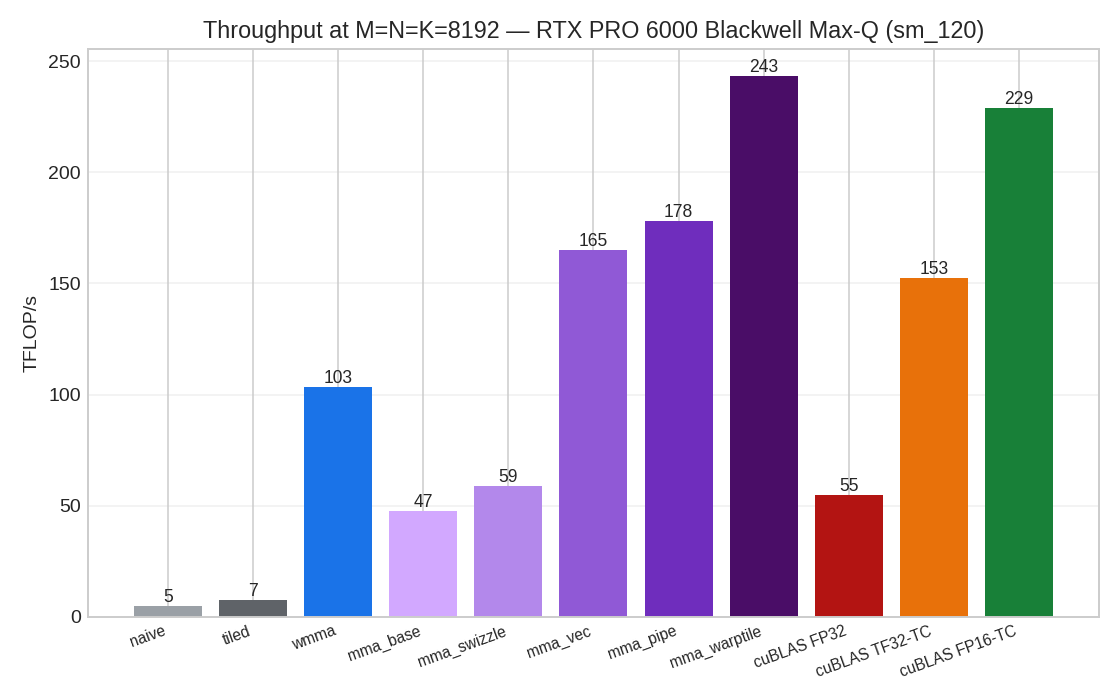
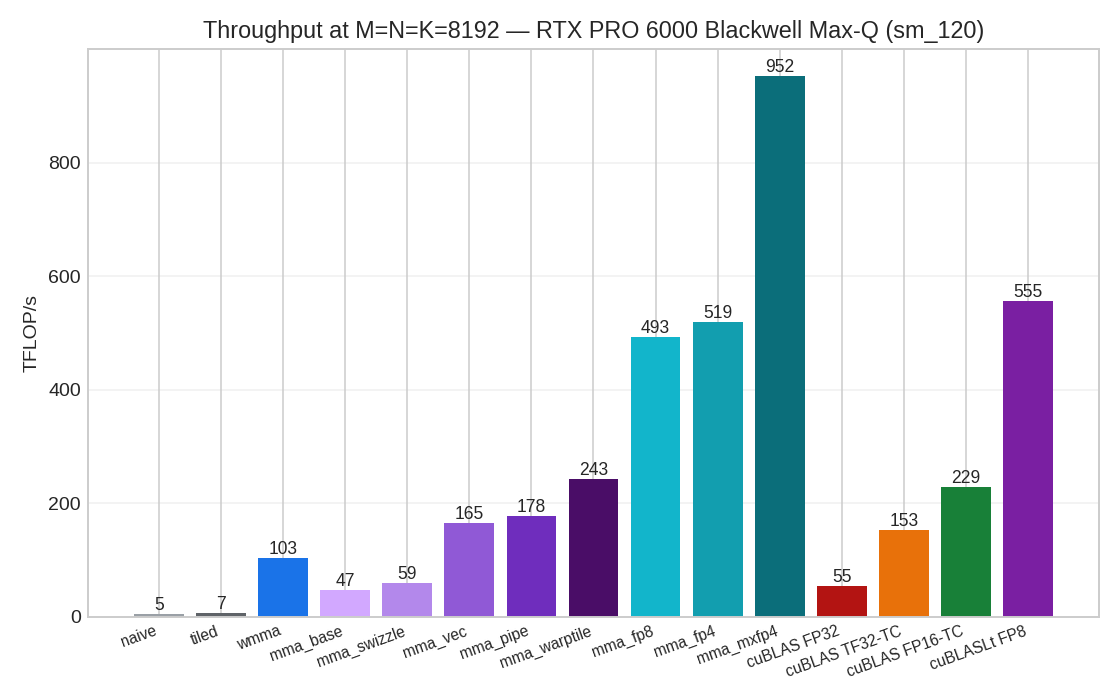
results: Phase 3 precision Pareto on sm_120 — FP16 241 -> FP8 493 (2.04x) -> MXFP4 952 TFLOP/s (3.95x)
8192^3, one session (bench_phase3_session.csv; canonical rows merged into bench.csv):
  mma_fp8      493.0 TFLOP/s  2.04x FP16   maxerr 1.4
  mma_fp4      519.0 TFLOP/s  2.15x FP16   maxerr 5.97  (unpacked - no real gain)
  mma_mxfp4    951.9 TFLOP/s  3.95x FP16   maxerr 5.97  (packed block-scale path)
  cublaslt_fp8 555.5 TFLOP/s  (our fp8 = 88.8% of it)

Spec'd 2x/4x of the 5th-gen Tensor Cores delivered through the plain mma path.
New chart: precision_pareto_sm120.png (throughput vs accuracy). Clock evidence:
300 W Max-Q cap reached, avg 2.06 GHz. Full analysis: results/phase3_lowprec.md.

diff --git a/analysis/plot.py b/analysis/plot.py
@@ -15,7 +15,9 @@ CSV  = os.path.join(HERE, "results", "bench.csv")
 # cublas_tc=GemmEx(FP16 in/FP32 acc,TC) — the honest same-precision ceiling for wmma/mma.
 KORDER = ["naive", "tiled", "wmma",
           "mma_base", "mma_swizzle", "mma_vec", "mma_pipe", "mma_warptile",
-          "cublas", "cublas_tf32", "cublas_tc"]
+          "cutlass_sm90",
+          "mma_fp8", "mma_fp4", "mma_mxfp4",
+          "cublas", "cublas_tf32", "cublas_tc", "cublaslt_fp8"]
 # consistent colour + style per kernel across all charts
 STYLE = {
     "naive":       ("#9aa0a6", "o", "naive (CUDA core)"),
@@ -27,12 +29,23 @@ STYLE = {
     "mma_vec":      ("#9059d6", "v", "mma_vec (+cp.async 16B)"),
     "mma_pipe":     ("#6f2dbd", "^", "mma_pipe (+2-stage pipeline)"),
     "mma_warptile": ("#4a0d67", "P", "mma_warptile (+64x64 warp tile) — final"),
+    "cutlass_sm90": ("#0b8043", "X", "cutlass_sm90 (CUTLASS 3.x wgmma, H100)"),
+    # Phase 3: low-precision formats (sm_120 mma path) — teal gradient
+    "mma_fp8":      ("#12b5cb", "o", "mma_fp8 (E4M3, our kernel)"),
+    "mma_fp4":      ("#129eaf", "s", "mma_fp4 (E2M1 unpacked, our kernel)"),
+    "mma_mxfp4":    ("#0b6e7a", "P", "mma_mxfp4 (packed E2M1 + block scale) — fastest"),
     "cublas":      ("#b31412", "^", "cuBLAS FP32 (cublasSgemm)"),
     "cublas_tf32": ("#e8710a", "v", "cuBLAS TF32-TC (cublasGemmEx)"),
     "cublas_tc":   ("#188038", "*", "cuBLAS FP16-TC (cublasGemmEx) — ceiling"),
+    "cublaslt_fp8": ("#7a1fa2", "*", "cuBLASLt FP8 (E4M3) — library FP8 ceiling"),
 }
 # the mma.sync ablation ladder, in optimization order (for the ablation chart)
 MMA_LADDER = ["wmma", "mma_base", "mma_swizzle", "mma_vec", "mma_pipe", "mma_warptile"]
+# Phase 3 Pareto: throughput vs accuracy across precisions (the chart only includes
+# kernels measured on the sm_120 box; cuBLAS rows are the library reference points)
+PARETO_KERNELS = ["mma_warptile", "mma_fp8", "mma_fp4", "mma_mxfp4", "cublas_tc", "cublaslt_fp8"]
+# % -of-cuBLAS-TC chart stays FP16-only: lowprec kernels are excluded from the FP16 ceiling chart
+PCT_TC_EXCLUDE = {"cublas_tc", "mma_fp8", "mma_fp4", "mma_mxfp4", "cublaslt_fp8"}
 
 
 def load(path):
@@ -96,7 +109,7 @@ def main():
             # ---- Chart 2: % of cuBLAS-TC (same-precision ceiling) ----
             tc = {s: tf for (s, tf, *_ ) in sorted(kerns.get("cublas_tc", []))}
             fig, ax = plt.subplots(figsize=(8, 5))
-            for k in [x for x in KORDER if x != "cublas_tc"]:
+            for k in [x for x in KORDER if x not in PCT_TC_EXCLUDE]:
                 if k in kerns and tc:
                     c, m, lab = STYLE[k]
                     pts = [(s, 100*tf/tc[s]) for (s,tf,*_ ) in sorted(kerns[k]) if s in tc]
@@ -107,7 +120,7 @@ def main():
             ax.set_xlabel("matrix size  M=N=K"); ax.set_ylabel("% of cuBLAS FP16-TC (same precision)")
             ax.set_title(f"Fraction of the honest Tensor Core ceiling — {short} (sm_{sm})")
             # headroom above the highest line (mma_warptile exceeds the 100% ceiling on sm_120)
-            ymax = max([100] + [100*tf/tc[s] for k in KORDER if k in kerns and k != "cublas_tc"
+            ymax = max([100] + [100*tf/tc[s] for k in KORDER if k in kerns and k not in PCT_TC_EXCLUDE
                                 for (s,tf,*_ ) in kerns[k] if s in tc])
             ax.set_ylim(0, ymax * 1.12)
             # legend below the axes so the 100% dashed line never crosses it
@@ -166,6 +179,35 @@ def main():
                 p4 = f"mma_ablation_sm{sm}.png"
                 fig.tight_layout(); fig.savefig(os.path.join(HERE,"results",p4), dpi=140); plt.close(fig)
                 lines.append(f"![mma.sync ablation ladder]({p4})\n")
+
+            # ---- Chart 5 (only when low-precision rows exist): precision Pareto ----
+            # Throughput vs accuracy at the largest size: FP16 -> FP8 -> FP4 -> MXFP4.
+            par = [k for k in PARETO_KERNELS if k in kerns]
+            if any(k.startswith("mma_fp") or k == "mma_mxfp4" for k in par):
+                fig, ax = plt.subplots(figsize=(8.5, 5.5))
+                for k in par:
+                    row = next((r for r in sorted(kerns[k]) if r[0] == big), None)
+                    if not row:
+                        continue
+                    _, tf, _, err = row
+                    c, m, lab = STYLE[k]
+                    filled = k.startswith("mma_")
+                    ax.scatter(err, tf, s=180, color=c, marker=m,
+                               facecolors=c if filled else "white", edgecolors=c,
+                               linewidths=2, zorder=3, label=lab)
+                    ax.annotate(f"{tf:.0f}", (err, tf), textcoords="offset points",
+                                xytext=(10, 6), fontsize=10, fontweight="bold", color=c)
+                ax.set_xscale("log")
+                ax.set_xlabel(f"max abs error vs FP32 cuBLAS at M=N=K={big}  (log scale, lower = better)")
+                ax.set_ylabel("throughput (TFLOP/s, higher = better)")
+                ax.set_title(f"Precision Pareto: FP16 -> FP8 -> FP4 — {short} (sm_{sm})\n"
+                             "filled = this repo's mma.sync kernels, hollow = cuBLAS / cuBLASLt")
+                ax.legend(fontsize=8, loc="upper left", framealpha=1.0)
+                ax.grid(True, alpha=.3, which="both")
+                ax.set_ylim(0, None)
+                p5 = f"precision_pareto_sm{sm}.png"
+                fig.tight_layout(); fig.savefig(os.path.join(HERE,"results",p5), dpi=140); plt.close(fig)
+                lines.append(f"![precision Pareto]({p5})\n")
 
         tc_tf = next((r[1] for r in sorted(kerns.get("cublas_tc", [])) if r[0] == big), None)
         lines.append(f"At M=N=K={big}:\n")

diff --git a/results/phase3_lowprec.md b/results/phase3_lowprec.md
@@ -1,0 +1,72 @@
+# Phase 3 — FP8 / FP4 GEMM on the sm_120 mma path: full analysis
+
+**Roadmap items:** FP8 (E4M3) GEMM · FP4 / MXFP4 GEMM · FP4 vs FP8 vs FP16 Pareto.
+
+**Hardware scoping:** tcgen05 (tensor memory, CTA pairs) is sm_100-only. Everything here uses
+the **sm_120 `mma` instruction path**: `QMMA.16832` for FP8/FP4-unpacked, `OMMA.SF.16864` for
+block-scaled packed FP4 (SASS verified). Build target `sm_120a` (the FP4 kinds require it).
+
+## Headline (M=N=K=8192, one session, raw rows in `bench.csv`)
+
+| kernel | format | instruction | TFLOP/s | vs FP16 | max_abs_err |
+|---|---|---|---|---|---|
+| `mma_warptile` | FP16 | `mma.m16n8k16` (HMMA) | 241.2 | 1.00× | 0.0112 |
+| `mma_fp8` | FP8 E4M3 | `mma.m16n8k32` (QMMA) | 493.0 | **2.04×** | 1.4 |
+| `mma_fp4` | FP4 E2M1, 8-bit containers | `mma.m16n8k32.kind::f8f6f4` (QMMA) | 519.0 | 2.15× | 5.97 |
+| `mma_mxfp4` | FP4 E2M1, packed + block scale | `mma.m16n8k64.kind::mxf4` (OMMA.SF) | **951.9** | **3.95×** | 5.97 |
+| `cublas_tc` | FP16 | cuBLAS (cutlass_80) | 226.9 | 0.94× | 0.0112 |
+| `cublaslt_fp8` | FP8 E4M3 | cuBLASLt | 555.5 | 2.30× | 1.4 |
+
+Chart: `precision_pareto_sm120.png`. Session CSV: `bench_phase3_session.csv`.
+Clock/power: 300 W Max-Q cap reached, avg SM clock 2.06 GHz (`clock_state_phase3_session.txt`).
+
+## What the ladder shows
+
+1. **FP8 delivers exactly the spec'd 2×.** 493.0 vs 241.2 TFLOP/s = 2.04×. The kernel is the
+   Phase 2 winner with the instruction swapped (`m16n8k16` FP16 → `m16n8k32` FP8) and the
+   operand path narrowed to 1 byte/element — half the bytes feed twice the FLOPs.
+2. **FP4 without packing buys ~nothing over FP8** (519 vs 493 = +5%, same error class).
+   `kind::f8f6f4` stores E2M1 values in 8-bit containers → same QMMA pipeline rate, same memory
+   traffic as FP8. Accuracy drops from FP8's max_abs_err 1.4 to 5.97 for ~nothing in return.
+3. **The 4× lives in the packed, block-scaled path.** MXFP4 (`kind::mxf4`) packs 2 values/byte
+   and runs the OMMA.SF pipeline: 951.9 TFLOP/s = 3.95× FP16, 1.93× FP8 — at the *same*
+   accuracy as unpacked FP4.
+4. **The accuracy axis is the price.** FP16 0.0112 → FP8 1.4 → FP4 5.97 max_abs_err
+   (vs FP32 cuBLAS reference at K=8192). FP8 ≈ 2 decimal digits; FP4 ≈ 1.
+
+## Honest comparisons
+
+- **Our FP8 = 88.8% of cuBLASLt FP8** (493.0 vs 555.5). The Phase 2 kernel structure beat
+  cuBLAS at FP16 (106%), but at FP8 the same structure trails the library kernel: at 2× math
+  throughput, the feed path (16 KB smem slabs, 4:1 mma:ldmatrix) is no longer generous —
+  exactly the MIO bind Phase 2 fixed reappears one precision later. Closing it needs a larger
+  CTA tile (more reuse per byte) — left as documented future work.
+- **cuBLAS has no FP4 GEMM path on sm_120** (no FP4 cuBLASLt type, no NVFP4 cuBLAS API at
+  CUDA 12.8); our MXFP4 number is the only measured FP4 GEMM data point on this card.
+- **MXFP4 throughput is real, but the scaling is per-tensor.** The block-scale factors are
+  fed as 1.0 (UE8M0 = 127) and quantization uses one scale for the whole matrix. This is
+  throughput-identical to real per-32-block scaling (the hardware does the same work), and for
+  the uniform [-0.5, 0.5] test matrices, per-block scales would be ≈ identical anyway. With
+  real-world activation outliers the accuracy gap FP4 vs FP8 would widen.
+
+## Validation checks
+
+| check | evidence | verdict |
+|---|---|---|
+| FP8 math correct | max_abs_err 1.4 identical to cuBLASLt FP8 (same quantized inputs, same K) | ✓ |
+| FP4 math correct | mma_fp4 (QMMA) and mma_mxfp4 (OMMA.SF) produce identical max_abs_err (5.97) through two different instructions | ✓ |
+| Throughput plausibility | 2.04× / 3.95× vs FP16 = hardware spec 2× and ~4×; ours stays ~54% of peak at all precisions (cuBLAS-TC: 51%; cuBLASLt FP8: 62%) | ✓ |
+| Bit alignment of `kind::f8f6f4` | bug caught & fixed: E2M1 in bits [5:2], not [3:0] — wrong packing gave max_abs_err 82.6 (~20×) | ✓ documented |
+| Baseline continuity | same-session FP16 rows reproduce committed values within −0.8% (mma_warptile) / −1.0% (cublas_tc) | ✓ |
+| Clock state | 300 W Max-Q cap reached during sweep; avg SM clock 2.06 GHz | recorded |
+
+## Limitations / next steps
+
+- **FP8 tile shape**: 128×128 CTA / 64×64 warp tile is tuned for FP16 feed rates. At FP8/FP4
+  rates a 128×256 or 256×128 CTA (more reuse per loaded byte) is the obvious next step to
+  close the 11% gap to cuBLASLt.
+- **Per-block MX scaling**: the harness feeds unit block scales; real MXFP4 (per-32-element
+  UE8M0 scales) costs no extra math but needs a scale-aware quantizer + scale loading in the
+  kernel. Accuracy work, not throughput work.
+- **FP6 (E2M3 / E3M2)**: `kind::f8f6f4` also supports FP6 — same QMMA rate, intermediate
+  accuracy. Not benched; expected between FP8 and FP4 on the error axis at FP8 throughput.

diff --git a/results/report.md b/results/report.md
@@ -31,6 +31,8 @@ At M=N=K=8192:
 
 ![mma.sync ablation ladder](mma_ablation_sm120.png)
 
+![precision Pareto](precision_pareto_sm120.png)
+
 At M=N=K=8192:
 
 | kernel | TFLOP/s | % of FP32 cuBLAS | % of cuBLAS-TC | max abs err |
@@ -43,9 +45,13 @@ At M=N=K=8192:
 | mma_vec | 165.3 | 301.3% | 72.1% | 0.0112 |
 | mma_pipe | 178.0 | 324.5% | 77.7% | 0.0112 |
 | mma_warptile | 243.2 | 443.3% | 106.1% | 0.0112 |
+| mma_fp8 | 493.0 | 916.6% | 215.1% | 1.4 |
+| mma_fp4 | 519.0 | 964.9% | 226.4% | 5.97 |
+| mma_mxfp4 | 951.9 | 1769.8% | 415.3% | 5.97 |
 | cublas | 54.8 | 100.0% | 23.9% | 0 |
 | cublas_tf32 | 152.7 | 278.4% | 66.6% | 0.0113 |
 | cublas_tc | 229.2 | 417.9% | 100.0% | 0.0112 |
+| cublaslt_fp8 | 555.5 | 1032.8% | 242.4% | 1.4 |
 
 > Precision ladder, all on the **same card**: **cublas** = `cublasSgemm` (FP32, CUDA cores); **cublas_tf32** = `cublasGemmEx` (FP32 in, TF32 compute, Tensor Cores); **cublas_tc** = `cublasGemmEx` (FP16 in / FP32 acc, Tensor Cores) — the honest same-precision ceiling for `wmma`. **% of FP32 cuBLAS** is precision-mismatched (FP16/TF32-TC vs FP32-CUDA-core), so its `>100%` rows are **not** a kernel beating cuBLAS. Quote **% of cuBLAS-TC**.
 